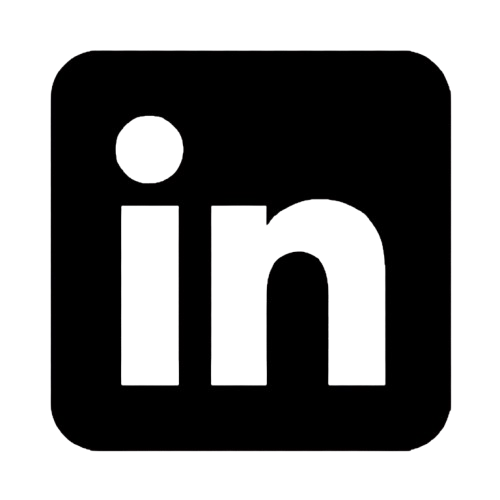
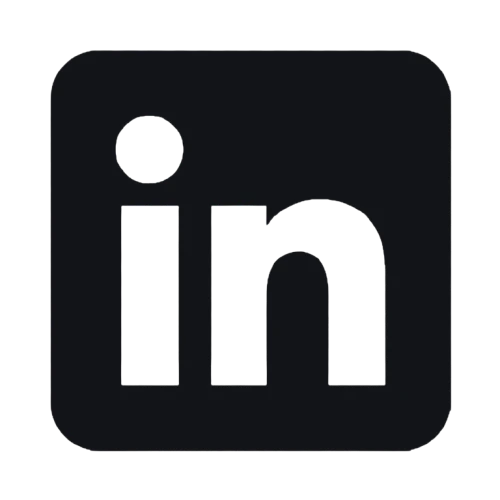
Portfolio FInalizado - Todas las funcionalidades implementadas.

diff --git a/Portfolio-original/index.html b/Portfolio-original/index.html
@@ -9,18 +9,28 @@
 </head>
 
 <body>
+
     <!-- Redes sociales -->
     <header>
         <div class="social-media">
-            <a href="https://www.instagram.com/kehianmartins_/profilecard/?igsh=MXRhbWo5dXE3YnQxYQ=="><img src="img/instagram.webp" alt="Instagram" /></a>
+            <a href="https://www.instagram.com/kehianmartins_/profilecard/?igsh=MXRhbWo5dXE3YnQxYQ=="><img
+                    src="img/instagram.webp" alt="Instagram" /></a>
             <a href="https://github.com/kehianmartins"><img src="img/github-mark.webp" alt="GitHub" /></a>
-            <a href="https://www.linkedin.com/in/kehian-martins-1617822ab/"><img src="img/linkedin.webp" alt="LinkedIn" /></a>
+            <a href="https://www.linkedin.com/in/kehian-martins-1617822ab/"><img src="img/linkedin.webp"
+                    alt="LinkedIn" /></a>
         </div>
     </header>
+
+    <!-- Checkbox para el menú desplegable -->
 
     <!-- Layout general -->
     <main>
         <!-- Menú lateral -->
+        <button class="menu-toggle" aria-label="Abrir menú">
+            <span></span>
+            <span></span>
+            <span></span>
+        </button>
         <aside>
             <nav class="menu">
                 <ul>
@@ -46,7 +56,7 @@
                     </p>
                 </div>
                 <img src="img/profile-picture.webp" alt="Foto de perfil" />
-            
+
             </section>
 
             <!-- Sección Estudios -->
@@ -55,9 +65,9 @@
                 <div class="lista-estudios">
                     <!-- Elementos para hacer la línea de tiempo-->
                     <div class="linea"></div>
-                    <div class="col1 punto uno"></div>                    
+                    <div class="col1 punto uno"></div>
                     <div class="col1 punto dos"></div>
-                    
+
                     <!-- Elementos dentro de la línea de tiempo-->
                     <h3 class="col2">Ciclo Básico</h3>
                     <p class="col2">Ciclo público básico completo aprobado.</p>
@@ -73,7 +83,9 @@
                     <div class="proyecto">
                         <h3>Rincón de Franquía</h3>
                         <p>
-                            Un proyecto realizado en conjunto a varios compañeros para realizar una página web para el área protegida ubicada en Bella Unión, Artigas, llamada Rincón de Franquía. Se utilizaron tecnologías HTML y CSS.
+                            Un proyecto realizado en conjunto a varios compañeros para realizar una página web para el
+                            área protegida ubicada en Bella Unión, Artigas, llamada Rincón de Franquía. Se utilizaron
+                            tecnologías HTML y CSS.
                         </p>
                         <div class="codigo">
                             <a href="https://github.com/kehianmartins/rincon_de_franquia">
@@ -103,21 +115,22 @@
                 <h2>Contacto</h2>
                 <div class="cont-contacto">
                     <div class="formulario">
-                    <form action="#" method="post">
-                        <label for="email">Email</label>
-                        <input type="email" name="email" placeholder="Ingrese su email" id="email">
-                        <label for="razon">Razón</label>
-                        <input type="text" name="Razón" placeholder="Razón de contacto" id="razon">
-                        <label for="comentario">Email</label>
-                        <textarea name="comentario" placeholder="Ingrese su texto" id="comentario"></textarea>
-                        <button class= "send-button"type="submit" name="submit">Envíar</button>
-                    </form>
-                    <p>O bien puedes contactarme a <a href="mailto:kehianmartins2703@gmail.com">kehianmartins2703@gmail.com</a> o
-                        encontrarme en mis redes sociales.</p>
-                
+                        <form action="#" method="post">
+                            <label for="email">Email</label>
+                            <input type="email" name="email" placeholder="Ingrese su email" id="email">
+                            <label for="razon">Razón</label>
+                            <input type="text" name="Razón" placeholder="Razón de contacto" id="razon">
+                            <label for="comentario">Email</label>
+                            <textarea name="comentario" placeholder="Ingrese su texto" id="comentario"></textarea>
+                            <button class="send-button" type="submit" name="submit">Envíar</button>
+                        </form>
+                        <p>O bien puedes contactarme a <a
+                                href="mailto:kehianmartins2703@gmail.com">kehianmartins2703@gmail.com</a> o
+                            encontrarme en mis redes sociales.</p>
+
                     </div>
                 </div>
-                </section>
+            </section>
         </div>
     </main>
 
@@ -125,7 +138,17 @@
     <footer>
         &copy; 2025. Todos los derechos reservados.
     </footer>
+
+    <script>
+        const menuToggle = document.querySelector('.menu-toggle');
+        const aside = document.querySelector('aside');
+        const main = document.querySelector('main');
     
+        menuToggle.addEventListener('click', () => {
+            aside.classList.toggle('open');
+            main.classList.toggle('open');
+        });
+    </script>
 </body>
 
 </html>

diff --git a/Portfolio-original/style.css b/Portfolio-original/style.css
@@ -58,10 +58,12 @@ header {
     display: flex;
     align-items: center;
     border-radius: 10px;
-    background-color: #D9D9D9;
+    background-color: #24292F;
+    border: 1px solid #ffffff;
 }
 
 .social-media img {
+    filter: invert(1);
     height: 30px;
     width: auto;
     display: block;
@@ -119,7 +121,6 @@ aside {
     padding-left: 15px;
     margin-bottom: 20px;
     border-left: 4px solid #6f92ff;
-    width: 10vw;
     /* padding-top: 10px; */
     /* border-top: 4px solid #6f92ff; */
 }
@@ -202,8 +203,8 @@ aside {
     width: 15px;
     height: 15px;
     border-radius: 100px;
-    border: 5px solid #6f92ff;
     background-color: #6f92ff;
+    z-index: inherit;
 }
 
 .linea {
@@ -214,7 +215,7 @@ aside {
     grid-row: 1 / 4;
     background-color: #6f92ff;
     justify-self: center;
-    z-index: 0;
+    z-index: inherit;
 }
 
 .lista-estudios .uno {
@@ -234,6 +235,7 @@ aside {
     display: grid;
     grid-template-columns: repeat(auto-fit, minmax(200px, 1fr));
     column-gap: 40px;
+    row-gap: 20px;
 }
 
 .proyecto {
@@ -295,14 +297,13 @@ aside {
 
 /* - - - Contacto - - - */
 .contacto h2{
+    width: 125px;
     padding: 0;
     margin: 0 auto;
     margin-bottom: 30px;
     text-align: center;
     border-radius: 10px;
-    border-left: 4px solid #6f92ff;
-    border-right: 4px solid #6f92ff;
-
+    border: 4px solid #6f92ff;
 }
 
 .cont-contacto {
@@ -381,6 +382,14 @@ footer {
     text-align: center;
 }
 
+
+/* - - - Menú desplegable - - -*/
+
+.menu-toggle {
+    display: none;
+}
+
+
 @keyframes gradient-animation {
     0% {
         background-position: 0% 50%;
@@ -392,5 +401,145 @@ footer {
 
     100% {
         background-position: 0% 50%;
+    }
+}
+
+/* Media Queries para responsive */
+@media (max-width: 780px) {
+
+    .menu-toggle {
+        display: inline-block;
+        position: absolute;
+        top: 20px;
+        left: 20px;
+        background-color: transparent;
+        border: none;
+        border-radius: 5px;
+        background-color: #24292F;
+        padding: 10px;
+        cursor: pointer;
+        z-index: 1000;
+    }
+    
+    .menu-toggle span {
+        display: block;
+        width: 20px;
+        height: 2px;
+        background-color: #ffffff;
+        margin-bottom: 5px;
+    }
+
+    .menu-toggle span:last-child {
+        margin-bottom: 0;
+    }
+
+    aside {
+        position: fixed;
+        top: 0;
+        left: -250px; /* Ancho del menú */
+        height: 100vh;
+        background-color: #333333ec;
+        border-right: 1px solid #6f92ff;
+        padding: 20px;
+        transition: left 0.3s ease;
+    }
+    
+    aside.open {
+        left: 0;
+    }
+    
+    /* Estilos para el contenido principal */
+    main {
+        transition: margin-left 0.3s ease;
+    }
+
+    main {
+        grid-template-columns: 1fr; /* Cambiar a una sola columna en pantallas pequeñas */
+    }
+
+    .perfil {
+        grid-template-columns: 1fr; /* Cambiar a una sola columna */
+        text-align: center; /* Centrar texto en pantallas pequeñas */
+    }
+
+    .perfil img {
+        justify-self: center;
+    }
+
+    .contenido {
+        padding: 10px; 
+        padding-top: 40px;
+    }
+
+    .cont-contacto {
+        width: 90%; /* Hacer el formulario más ancho en pantallas pequeñas */
+    }
+
+    .cont-contacto .formulario {
+        width: 95%; /* Hacer el formulario ocupar el 100% */
+    }
+
+    .social-media {
+        position: static; /* Cambiar a posición estática */
+    }
+
+    .social-media img {
+        height: 25px; /* Reducir el tamaño de los iconos */
+    }
+
+    .perfil .texto {
+        border-right: 4px solid #6f92ff;
+        border-radius: 10px;
+    }
+}
+
+@media (max-width: 1200px) {
+    .perfil {
+        grid-template-columns: 1fr;
+        text-align: center;
+    }
+
+    .perfil img {
+        justify-self: center;
+    }
+
+    .contenido {
+        padding: 10px; 
+        padding-top: 40px;
+    }
+
+    .cont-contacto {
+        width: 90%; 
+    }
+
+    .cont-contacto .formulario {
+        width: 95%; 
+    }
+
+    .social-media {
+        position: static; 
+    }
+
+    .social-media img {
+        height: 25px;/
+    }
+
+    .perfil .texto {
+        border-right: 4px solid #6f92ff;
+        border-radius: 10px;
+    }
+
+    .perfil h1 { 
+        color: #6f92ff;
+    }
+}
+
+@media (max-width: 480px) {
+    h1 { font-size: 1.8rem; }
+    h2 { font-size: 1.4rem; }
+    h3 { font-size: 1rem; }
+    .perfil img {
+        width: 120px; /* Reducir el tamaño de la imagen de perfil */
+        height: 120px; /* Reducir el tamaño de la imagen de perfil */
     }
 }

diff --git a/Portfolio-original/prueba.html b/Portfolio-original/prueba.html
@@ -1,0 +1,50 @@
+<!DOCTYPE html>
+<html lang="es">
+<head>
+  <meta charset="UTF-8">
+  <title>Menú con Checkbox</title>
+  <style>
+    #menu-toggle {
+      display: none;
+    }
+
+    .menu-label {
+      display: inline-block;
+      background-color: #3498db;
+      color: white;
+      padding: 10px;
+      cursor: pointer;
+    }
+
+    .menu-content {
+      display: none;
+      margin-top: 5px;
+    }
+
+    #menu-toggle:checked + .menu-label + .menu-content {
+      display: block;
+    }
+
+    .menu-content a {
+      display: block;
+      padding: 10px;
+      background-color: #f1f1f1;
+      text-decoration: none;
+      color: black;
+    }
+
+    .menu-content a:hover {
+      background-color: #ddd;
+    }
+  </style>
+</head>
+<body>
+  <input type="checkbox" id="menu-toggle">
+  <label class="menu-label" for="menu-toggle">Menú</label>
+  <div class="menu-content">
+    <a href="#">Inicio</a>
+    <a href="#">Servicios</a>
+    <a href="#">Contacto</a>
+  </div>
+</body>
+</html>
